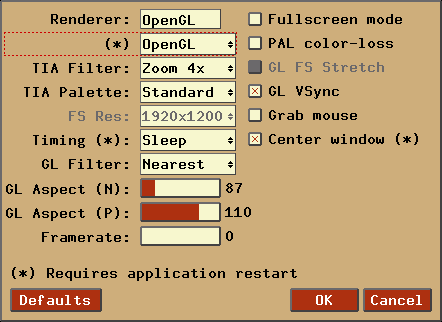
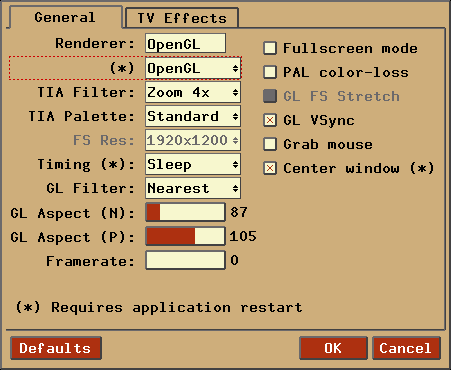
Updated documentation about CRT simulation effects.
General updates to the documentation for people I forgot to include in
previous releases.  Also added websites where applicable.

Update AboutDialog to be more current, showing only those members
currently active in the Stella project and the other teams that have
contributed code.  For more specifics, you should now see the manual.
Basically consolidated all contribution info into one document, so it
has to be kept up-to-date in only one place.

Changed region(s): [[0.0, 0.0, 1.0, 1.0], [0.0294, 0.1242, 0.0882, 0.1553]]

diff --git a/docs/index.html b/docs/index.html
@@ -10,7 +10,7 @@
 	<br><br>
 	<center><h2><b>A multi-platform Atari 2600 VCS emulator</b></h2></center>
 
-	<center><h4><b>Release 2.7.7</b></h4></center>
+	<center><h4><b>Release 2.8</b></h4></center>
 	<br><br>
 
 	<center><h2><b>User's Guide</b></h2></center>
@@ -40,7 +40,7 @@
 
 	<br><br><br>
 
-	<center><b>February 1999 - May 2009</b></center>
+	<center><b>February 1999 - June 2009</b></center>
 	<center><b>The Stella Team</b></center>
 	<center><b><a href="http://stella.sourceforge.net">Stella Homepage</a></b></center>
 
@@ -256,6 +256,9 @@
 			some games</li>
 		<li>TIA emulation supports full collision checking</li>
 		<li>Built-in extensive debugger</li>
+		<li>Emulation of CRT TV systems with OpenGL shaders, including texturing,
+			colour bleed, RF noise, and phosphor burn-off</li>
+		<li>Built-in ROM database with information compiled by RomHunter</li>
 	</ul>
 
 
@@ -280,6 +283,7 @@
 		<li>15 bit color minimum; 16 bit color graphics card highly recommended</li>
 		<li>SDL version 1.2.10 or greater, latest version highly recommended</li>
 		<li>Latest version of the zlib library</li>
+		<li>CRT emulation effects require OpenGL 2.0 with GLSL (GL shading language) support</li>
 		<li>Joysticks or gamepads are highly recommended</li>
 		<li>Mouse or Stelladaptor with real paddles required for paddle emulation</li>
 		<li>Some ROM images (See <a href="http://www.atariage.com">AtariAge</a> for more information)</li>
@@ -639,6 +643,36 @@
 				video cards, in which case it should be set to false.</td>
 		</tr>
 -->
+		<tr>
+			<td><pre>-tv_tex &lt;off|normal|stag&gt;</pre></td>
+			<td>OpenGL 2.0 mode only. Enable TV texturing.  The GL_TEXTURE_RECTANGLE
+				extension must be disabled for this to work correctly.</td>
+		</tr>
+
+		<tr>
+			<td><pre>-tv_bleed &lt;off|low|medium|high&gt;</pre></td>
+			<td>OpenGL 2.0 mode only. Enable TV colour bleed emulation.  A fast
+				video card with at least 128MB RAM is required to use 'high'.
+				The GL_TEXTURE_RECTANGLE extension must be disabled for this to
+				work correctly.</td>
+		</tr>
+
+		<tr>
+			<td><pre>-tv_noise &lt;off|low|medium|high&gt;</pre></td>
+			<td>OpenGL 2.0 mode only. Enable TV radio frequency noise emulation.
+				A fast video card with at least 128MB RAM is required to use 'high'.
+				The GL_TEXTURE_RECTANGLE extension must be disabled for this to
+				work correctly.</td>
+		</tr>
+
+		<tr>
+			<td><pre>-tv_phos &lt;1|0&gt;</pre></td>
+			<td>OpenGL 2.0 mode only. Enable phosphor effect of TV image.  This
+				is in addition to the currently emulated software phosphor
+				effect.  The GL_TEXTURE_RECTANGLE extension must be disabled
+				for this to work correctly.</td>
+		</tr>
+
 		<tr>
 			<td><pre>-tia_filter &lt;filter&gt;</pre></td>
 			<td>Use the specified filter while in TIA/emulation mode.  Currently,
@@ -1082,6 +1116,23 @@
 					<tr><td>GL VSync</td><td>enable OpenGL vertical synchronization</td><td>-gl_vsync</td></tr>
 					<tr><td>Grab mouse</td><td>keep mouse in SDL window</td><td>-grabmouse</td></tr>
 					<tr><td>Center window (*)</td><td>attempt to center SDL window (requires restart)</td><td>-center</td></tr>
+				</table>
+			</td>
+		</tr>
+	</table>
+	<br>
+	<p><b>Video Settings</b> dialog (TV Effects):</p>
+	<table border="5" cellpadding="2" frame="box" rules="none">
+		<tr>
+			<td><img src="graphics/options_video_tv.png"></td>
+			<td>&nbsp;&nbsp;&nbsp;&nbsp;</td>
+			<td valign="top">
+				<table border="1" cellpadding="4">
+					<tr><th>Item</th><th>Brief description</th><th>For more information,<br>see Commandline</th></tr>
+					<tr><td>TV Color Texture</td><td>emulate TV pixel texturing</td><td>-tv_tex</td></tr>
+					<tr><td>TV Color Bleed</td><td>emulate TV color bleed</td><td>-tv_bleed</td></tr>
+					<tr><td>TV Image Noise</td><td>emulate TV RF image noise</td><td>-tv_noise</td></tr>
+					<tr><td>TV Phosphor Burn-off</td><td>emulate TV phosphor mixing</td><td>-tv_phos</td></tr>
 				</table>
 			</td>
 		</tr>
@@ -2788,17 +2839,27 @@ Ms Pac-Man (Stella extended codes):
 	then a number of people from around the world have contributed to the project.
 	Some people have provided technical help while others have offered suggestions
 	and praise.  The Stella Team is grateful for all the help and support it has
-        received over the years.  The following is an incomplete list of the people who have
-	played a part in bringing Stella to you:</p>
+	received over the years.  The following is an incomplete list of the people who have
+	played a part in bringing Stella to you.  If I've missed someone, please let
+	me know.</p>
 
 	<table CELLSPACING="15">
 		<tr>
-			<td VALIGN="TOP">Stephen&nbsp;Anthony</td>
+			<td VALIGN="TOP">Ant<br>
+			(<a href="http://aqfl.net">http://aqfl.net</a>)</td>
+			<td>Provided much feedback and testing which eventually led to a fix
+			for the infamouse ATI OpenGL 'red screen' issue</td>
+		</tr>
+
+		<tr>
+			<td VALIGN="TOP">Stephen&nbsp;Anthony<br>
+			(<a href="http://minbar.org">http://minbar.org</a>)</td>
 			<td>Ported Stella 1.1 to SDL.  Added extra command line options to X11/SDL
 			versions.  Added INI file support, faster startup, snapshot support,
 			and pause functionality to core.  Converted Stella 1.1 manual to HTML.
 			Ported codebase to SDL for Windows/MacOSX.  Added OpenGL support and
-			Stelladaptor support. Current maintainer for the Linux and Windows versions.</td>
+			Stelladaptor support. Current maintainer for the Linux, OSX and Windows
+			versions.</td>
 		</tr>
 
 		<tr>
@@ -2814,6 +2875,14 @@ Ms Pac-Man (Stella extended codes):
 		<tr>
 			<td VALIGN="TOP">Alexander&nbsp;Bilstein</td>
 			<td>Provided "A Brief History of the Atari 2600" for this manual</td>
+		</tr>
+
+		<tr>
+			<td VALIGN="TOP">Ian&nbsp;Bogost and the Georgia&nbsp;Tech&nbsp;Atari&nbsp;Team<br>
+			(<a href="http://www.bogost.com/games/a_television_simulator.shtml">CRT Simulation Project</a>)</td>
+			<td>Contributed code for the 'CRT simulation' OpenGL filters.  The Winter 2009
+			team members are Edward Booth, Michael Cook, Justin Dobbs, William Rowland
+			and Prince Yang.</td>
 		</tr>
 
 		<tr>
@@ -2852,9 +2921,10 @@ Ms Pac-Man (Stella extended codes):
 		</tr>
 
 		<tr>
-			<td VALIGN="TOP">Mark&nbsp;Grebe</td>
+			<td VALIGN="TOP">Mark&nbsp;Grebe<br>
+			(<a href="http://www.atarimac.com">http://www.atarimac.com</a>)</td>
 			<td>Author of the Macintosh OSX version of Stella starting with the
-			1.4 release.  Helped with Stelladaptor support.</td>
+			1.4 release until release 2.4.  Helped with Stelladaptor support.</td>
 		</tr>
 
 		<tr>
@@ -2881,6 +2951,11 @@ Ms Pac-Man (Stella extended codes):
 		<tr>
 			<td VALIGN="TOP">Thomas&nbsp;Jentzsch</td>
 			<td>Provided updated NTSC palette and many ideas</td>
+		</tr>
+
+		<tr>
+			<td VALIGN="TOP">Andrew&nbsp;Kator<br>(<a href="http://www.katorlegaz.com">http://www.katorlegaz.com</a>)</td>
+			<td>Provided PHP and CSS code for a major update to the Stella website</td>
 		</tr>
 
 		<tr>
@@ -2940,6 +3015,11 @@ Ms Pac-Man (Stella extended codes):
 		</tr>
 
 		<tr>
+			<td VALIGN="TOP">RomHunter<br>(<a href="http://www.atarimania.com/roms-MENU-2.html">RomHunter ROMs</a>)</td>
+			<td>Provides an updated database of ROM information on a regular basis</td>
+		</tr>
+
+		<tr>
 			<td VALIGN="TOP">John&nbsp;Saeger</td>
 			<td>Participated in a helpful discussion on understanding the TIA's
 			RESPx multi-sprite trick</td>
@@ -2959,6 +3039,12 @@ Ms Pac-Man (Stella extended codes):
 			<td VALIGN="TOP">Jason&nbsp;Scott</td>
 			<td>Organizer of the property file archive for early versions of
 			Stella; now he's helping with the web site</td>
+		</tr>
+
+		<tr>
+			<td VALIGN="TOP">Seagtgruff</td>
+			<td>Provided test ROMs which finally fixed all remaining issues with
+			ADC/SBC opcode decimal mode emulation</td>
 		</tr>
 
 		<tr>
